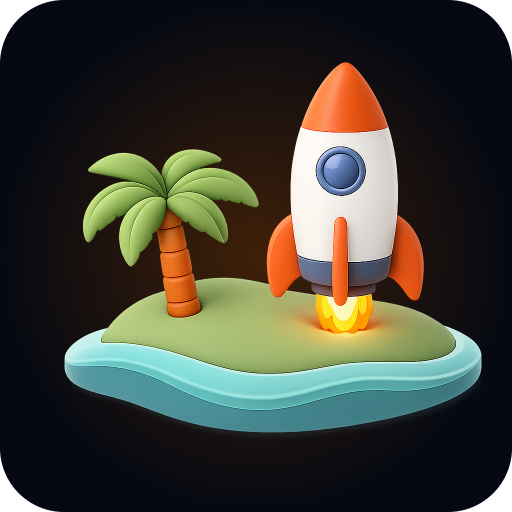
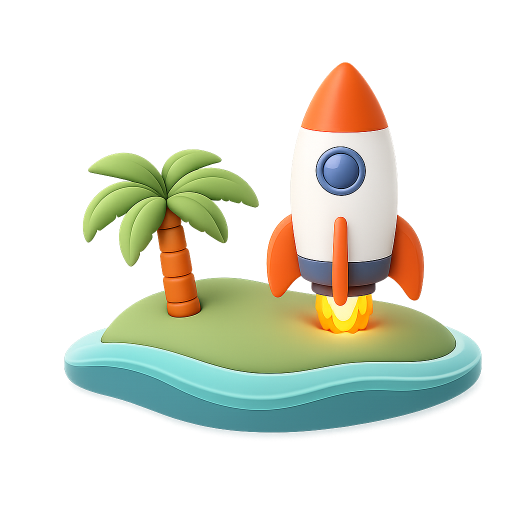
feat: add BuiltWithButton component to footer for enhanced branding and link to TanStarter

diff --git a/src/components/shared/built-with-button.tsx b/src/components/shared/built-with-button.tsx
@@ -1,0 +1,20 @@
+import { buttonVariants } from '@/components/ui/button';
+import { cn } from '@/lib/utils';
+
+export default function BuiltWithButton() {
+  return (
+    <a
+      target="_blank"
+      rel="noopener noreferrer"
+      href="https://tanstarter.com?utm_source=built-with-tanstarter"
+      className={cn(
+        buttonVariants({ variant: 'outline', size: 'sm' }),
+        'border border-border px-4 py-4 rounded-md gap-2'
+      )}
+    >
+      <span>Built with</span>
+      <img src="/tanstarter.png" alt="TanStarter" className="size-5" />
+      <span className="font-semibold">TanStarter</span>
+    </a>
+  );
+}

diff --git a/src/components/layout/footer.tsx b/src/components/layout/footer.tsx
@@ -4,6 +4,7 @@ import { isLinkActive } from '@/lib/urls';
 import { cn } from '@/lib/utils';
 import Container from '@/components/layout/container';
 import { Logo } from '@/components/shared/logo';
+import BuiltWithButton from '@/components/shared/built-with-button';
 import { Link, useLocation } from '@tanstack/react-router';
 import { websiteConfig } from '@/config/website';
 import { messages } from '@/messages';
@@ -98,6 +99,7 @@ export function Footer({ className }: React.HTMLAttributes<HTMLElement>) {
             &copy; {new Date().getFullYear()} {websiteConfig.metadata?.name}{' '}
             {messages.footer.rightsReserved}
           </span>
+          <BuiltWithButton />
         </Container>
       </div>
     </footer>